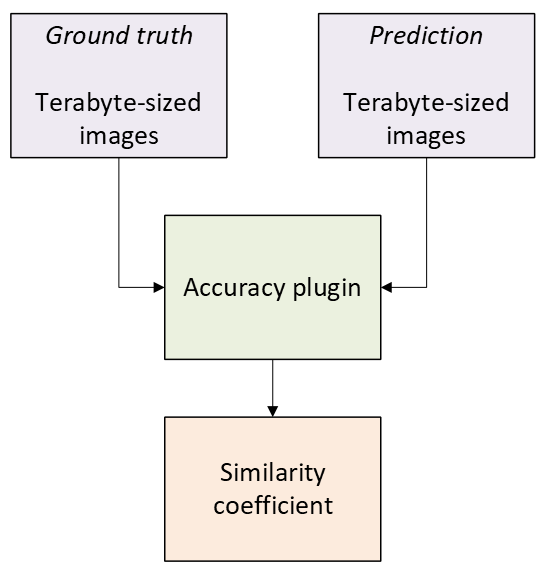
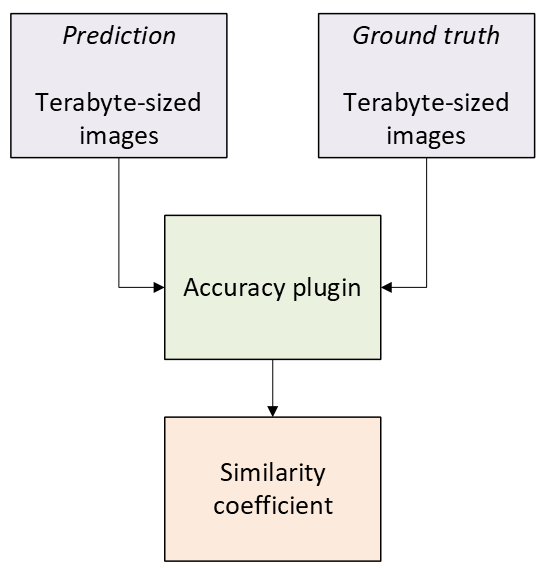
renaming and new content

Changed region(s): [[0.6239, 0.0297, 0.9358, 0.0892], [0.0624, 0.0297, 0.3743, 0.0892]]

diff --git a/sections/benchmark.tex b/sections/benchmark.tex
@@ -3,6 +3,29 @@
 \section{\sectiontitle}
 
 %%%%%%%%%%%%%%%%%%%%%%%%%%%%%%%%%%%%%%%%%%%%%%%%%%%%%%%%%%%%%%%%%%%%%%%%%%%%%%%%
+\def\slidetitle{2-steps workflow}
+
+\subsection{\slidetitle}
+\begin{frame}
+  \frametitle{\sectiontitle}
+  \framesubtitle{\slidetitle}
+
+  \begin{minipage}[h!]{0.35\textwidth}
+
+    WIPP 2-steps workflow
+
+    \begin{enumerate}
+        \item Inference the model
+        \item Compute the accuracy
+    \end{enumerate}
+
+  \end{minipage}\hfill
+  \begin{minipage}[h!]{0.65\textwidth}
+    \includegraphics[scale=0.52]{./img/3_benchmark/workflow.png}
+  \end{minipage}
+\end{frame}
+
+%%%%%%%%%%%%%%%%%%%%%%%%%%%%%%%%%%%%%%%%%%%%%%%%%%%%%%%%%%%%%%%%%%%%%%%%%%%%%%%%
 \def\slidetitle{Data 'cell boundary'}
 
 \subsection{\slidetitle}
@@ -121,22 +144,22 @@
     \begin{table}
         \begin{tabular}{|l|l|c|}
             \hline
-            \rowcolor{tableFirstRowColor}  Repository   & Model                     & Accuracy \\ [0.5ex]
+            \rowcolor{tableFirstRowColor}  Repository   & Model                         & Accuracy \\ [0.5ex]
             \hline
-            \cellcolor{tableFirstColColor} WIPP         & Stardist                  &  \\
+            \cellcolor{tableFirstColColor} BioImage.IO  & 10.5281/zenodo.5764892        & 93.73\% $\pm$ 3.98\% \\
             \hline
-            \cellcolor{tableFirstColColor} BioImage.IO  & 10.5281/zenodo.5764892    & 93.73\% $\pm$ 3.98\% \\
-            \hline
-            \cellcolor{tableFirstColColor}           &                  &  \\
+            \cellcolor{tableFirstColColor} WIPP         & Stardist 2D paper DSB 2018    & 90.67\% $\pm$ 4.42\% \\
             \hline
             \cellcolor{tableFirstColColor}           &                  &  \\
             \hline
             \cellcolor{tableFirstColColor}           &                  &  \\
             \hline
-            \cellcolor{tableFirstColColor} Cellpose     & cyto3                     &  \\
+            \cellcolor{tableFirstColColor} Cellpose     & cyto3                         & 82.31\% $\pm$ 17.25\% \\
+            \hline
+            \cellcolor{tableFirstColColor} SAM2         & facebook/sam2.1-hiera-large   & 33.89\% $\pm$ 29.43\% \\
             \hline
         \end{tabular}
-      \caption{Models accuracy after inference on data 'cell boundary'}
+      \caption{Models accuracy after inference on data 'nuclei segmentation'}
     \end{table}
   \end{center}
 

diff --git a/main.tex b/main.tex
@@ -12,7 +12,7 @@
 % \addbibresource{refs.bib}
 
 % base informations
-\title{WIPP: AI plugins, Benchmarks and Enhancements}
+\title{Reusing existing trained AI models in WIPP}
 \author[Author]{Antoine Meyer, Mylene Simon, Timothee Kheyrkhah, Peter Bajcsy}
 \date[\today]{\today}
 
@@ -28,41 +28,37 @@
         \tableofcontents[sections=1-2]
       \end{column}
       \begin{column}{.45\textwidth}
-        \tableofcontents[sections=3-5]
+        \tableofcontents[sections=3-4]
       \end{column}
     \end{columns}
   \end{frame}
 
-  \import{./sections/}{1_background}
+  \import{./sections/}{background}
 
   \begin{frame}[plain]
     \centering
     \tableofcontents[sections=2]
   \end{frame}
-  \import{./sections/}{2_ai-plugins}
+  \import{./sections/}{ai-plugins}
 
   \begin{frame}[plain]
     \centering
     \tableofcontents[sections=3]
   \end{frame}
-  \import{./sections/}{3_benchmark}
+  \import{./sections/}{benchmark}
 
   \begin{frame}[plain]
     \centering
     \tableofcontents[sections=4]
   \end{frame}
-  \import{./sections/}{4_enhancements}
+  \import{./sections/}{conclusion}
 
   \begin{frame}[plain]
     \centering
-    \tableofcontents[sections=5]
+    \LARGE Thanks !
   \end{frame}
-  \import{./sections/}{5_conclusion}
 
-%  \begin{frame}[plain]
-%    \centering
-%    \LARGE Thanks !
-%  \end{frame}
+  \import{./sections/}{enhancements}
 
 %  \begin{frame}[allowframebreaks, noframenumbering]{References}
 %    \printbibliography

diff --git a/sections/conclusion.tex b/sections/conclusion.tex
@@ -1,0 +1,54 @@
+\def\sectiontitle{Conclusion}
+
+\section{\sectiontitle}
+
+%%%%%%%%%%%%%%%%%%%%%%%%%%%%%%%%%%%%%%%%%%%%%%%%%%%%%%%%%%%%%%%%%%%%%%%%%%%%%%%%
+\def\slidetitle{New WIPP plugins}
+
+\subsection{\slidetitle}
+\begin{frame}
+  \frametitle{\sectiontitle}
+  \framesubtitle{\slidetitle}
+
+  Inference plugins
+  \begin{itemize}
+    \item Hugging Face:
+    \item BioImage.IO:
+    \item SAM2: 
+    \item Cellpose: 
+  \end{itemize}
+
+  Accuracy plugin
+  \begin{itemize}
+    \item Dice: 
+  \end{itemize}
+
+\end{frame}
+
+%%%%%%%%%%%%%%%%%%%%%%%%%%%%%%%%%%%%%%%%%%%%%%%%%%%%%%%%%%%%%%%%%%%%%%%%%%%%%%%%
+\def\slidetitle{Fine-tuning plugin}
+
+\subsection{\slidetitle}
+\begin{frame}
+  \frametitle{\sectiontitle}
+  \framesubtitle{\slidetitle}
+
+  \begin{minipage}[h!]{0.53\textwidth}
+    Goal
+    \begin{itemize}
+      \item Improve already existing AI models
+    \end{itemize}
+
+    \bigskip
+
+    Work
+    \begin{itemize}
+      \item Identify if models can be retrain/fine-tune
+      \item Plugin to fine-tune an AI model
+    \end{itemize}
+
+  \end{minipage}\hfill
+  \begin{minipage}[h!]{0.46\textwidth}
+    \includegraphics[scale=0.55]{./img/5_conclusion.png}
+  \end{minipage}
+\end{frame}

diff --git a/sections/ai-plugins.tex b/sections/ai-plugins.tex
@@ -1,4 +1,4 @@
-\def\sectiontitle{AI plugins}
+\def\sectiontitle{WIPP plugins for AI models reuse}
 
 \section{\sectiontitle}
 

diff --git a/sections/enhancements.tex b/sections/enhancements.tex
@@ -1,4 +1,4 @@
-\def\sectiontitle{Enhancements}
+\def\sectiontitle{WIPP enhancements}
 
 \section{\sectiontitle}
 
